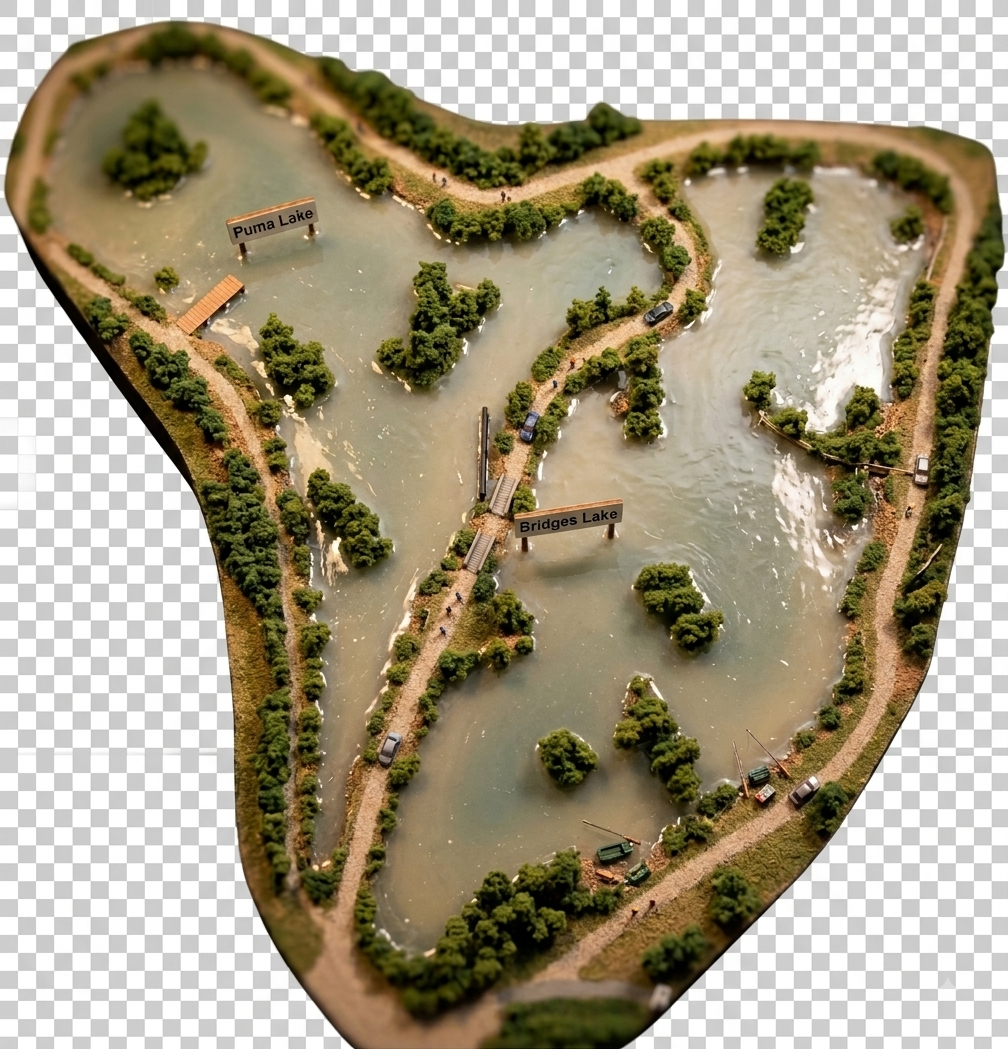
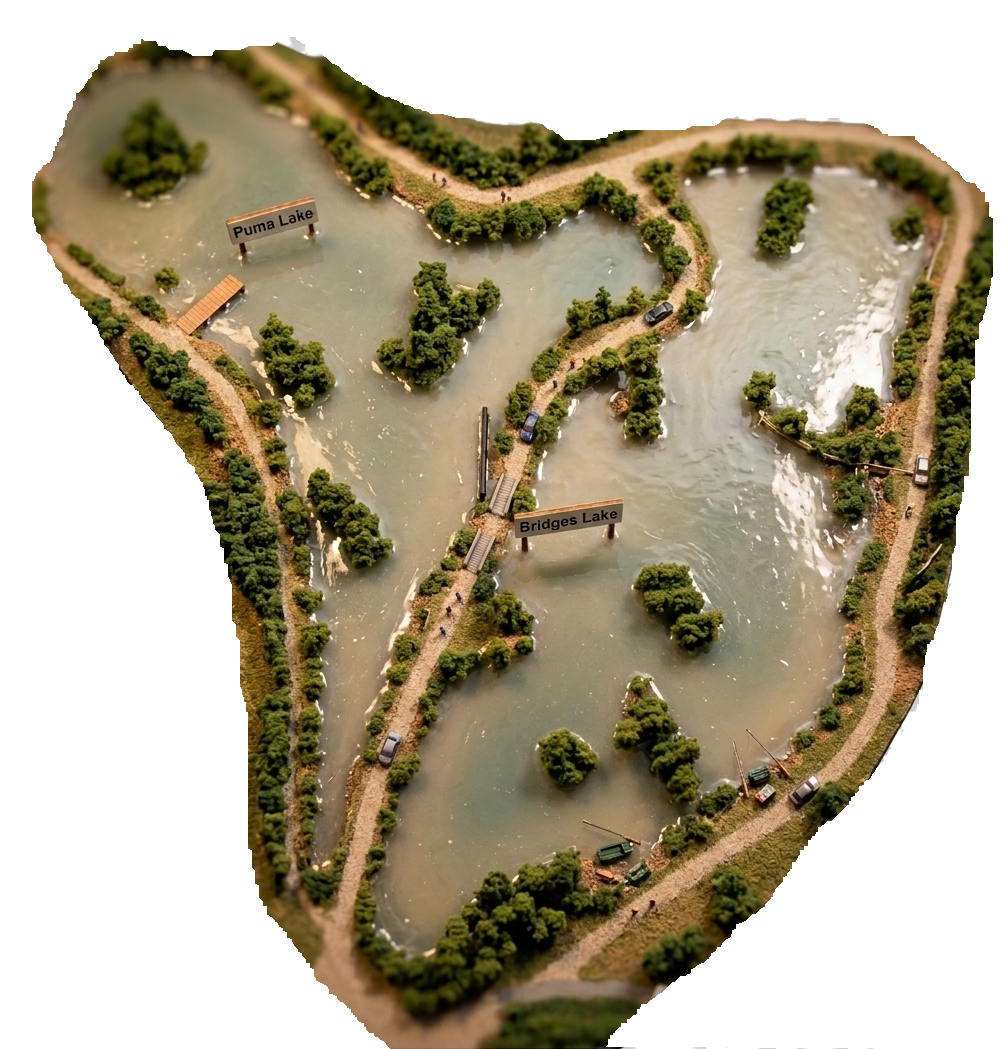
Replace Monks Mere lake image with new asset

Changed region(s): [[0.0, 0.0, 1.0, 1.0]]

diff --git a/index.html b/index.html
@@ -4,7 +4,7 @@
     <meta charset="UTF-8">
     <meta name="viewport" content="width=device-width, initial-scale=1.0">
     <title>Carp Fishing Tycoon</title>
-    <link rel="stylesheet" href="css/style.css?v=22">
+    <link rel="stylesheet" href="css/style.css?v=23">
     <link rel="stylesheet" href="css/anglers.css?v=15">
 </head>
 <body>
@@ -225,7 +225,7 @@
     <script src="js/breeding.js?v=13"></script>
     <script src="js/finance.js?v=13"></script>
     <script src="js/dashboard.js?v=18"></script>
-    <script src="js/lakes.js?v=22"></script>
+    <script src="js/lakes.js?v=23"></script>
     <script src="js/welcome-entry.js?v=17"></script>
     <script src="js/staff.js?v=14"></script>
     <script src="js/minigame-duckhunt.js?v=3"></script>
